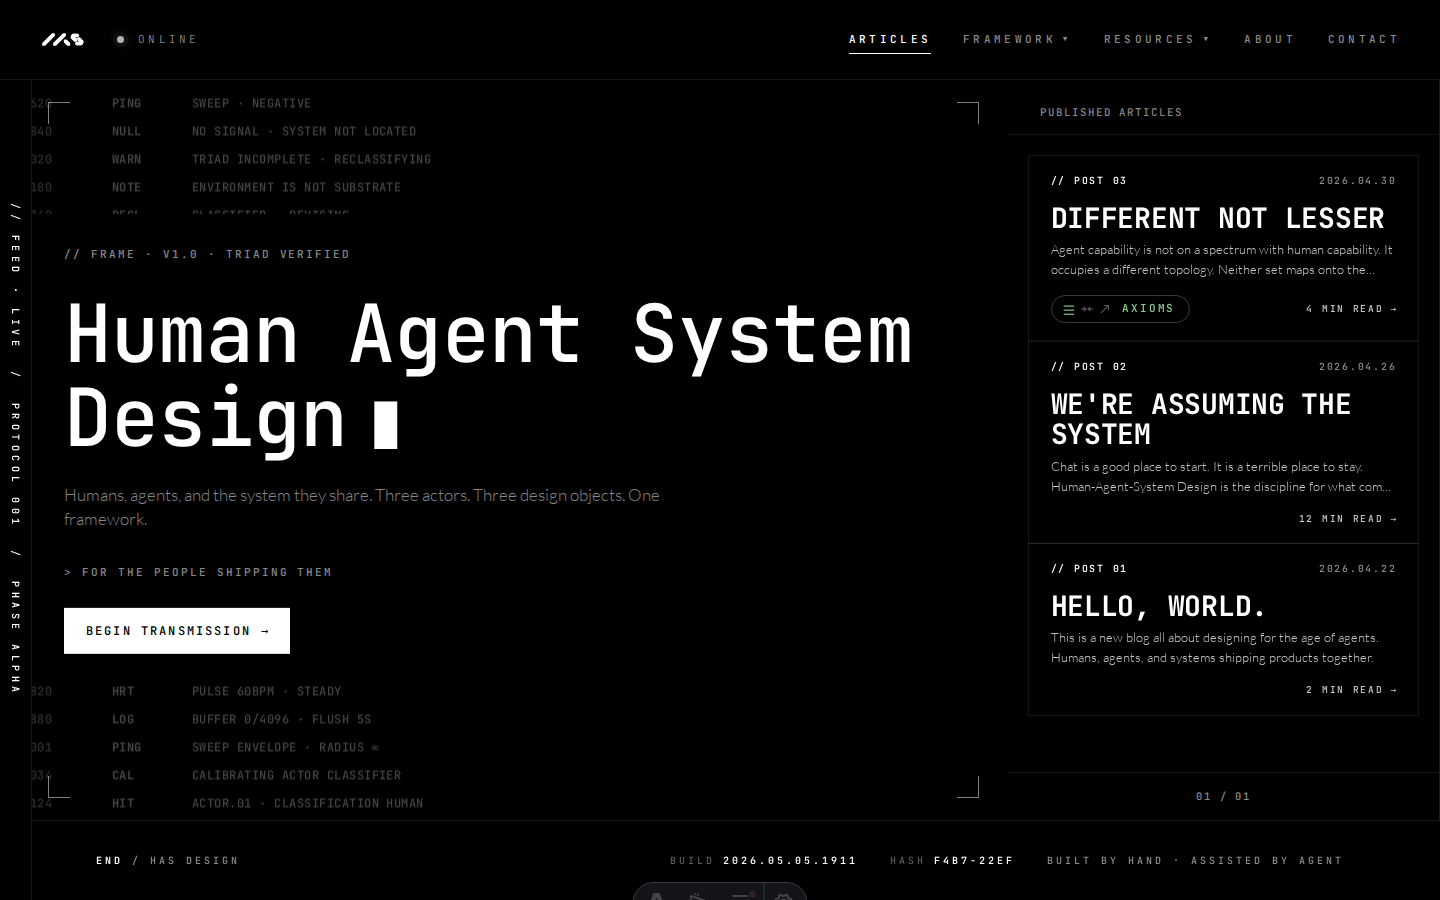
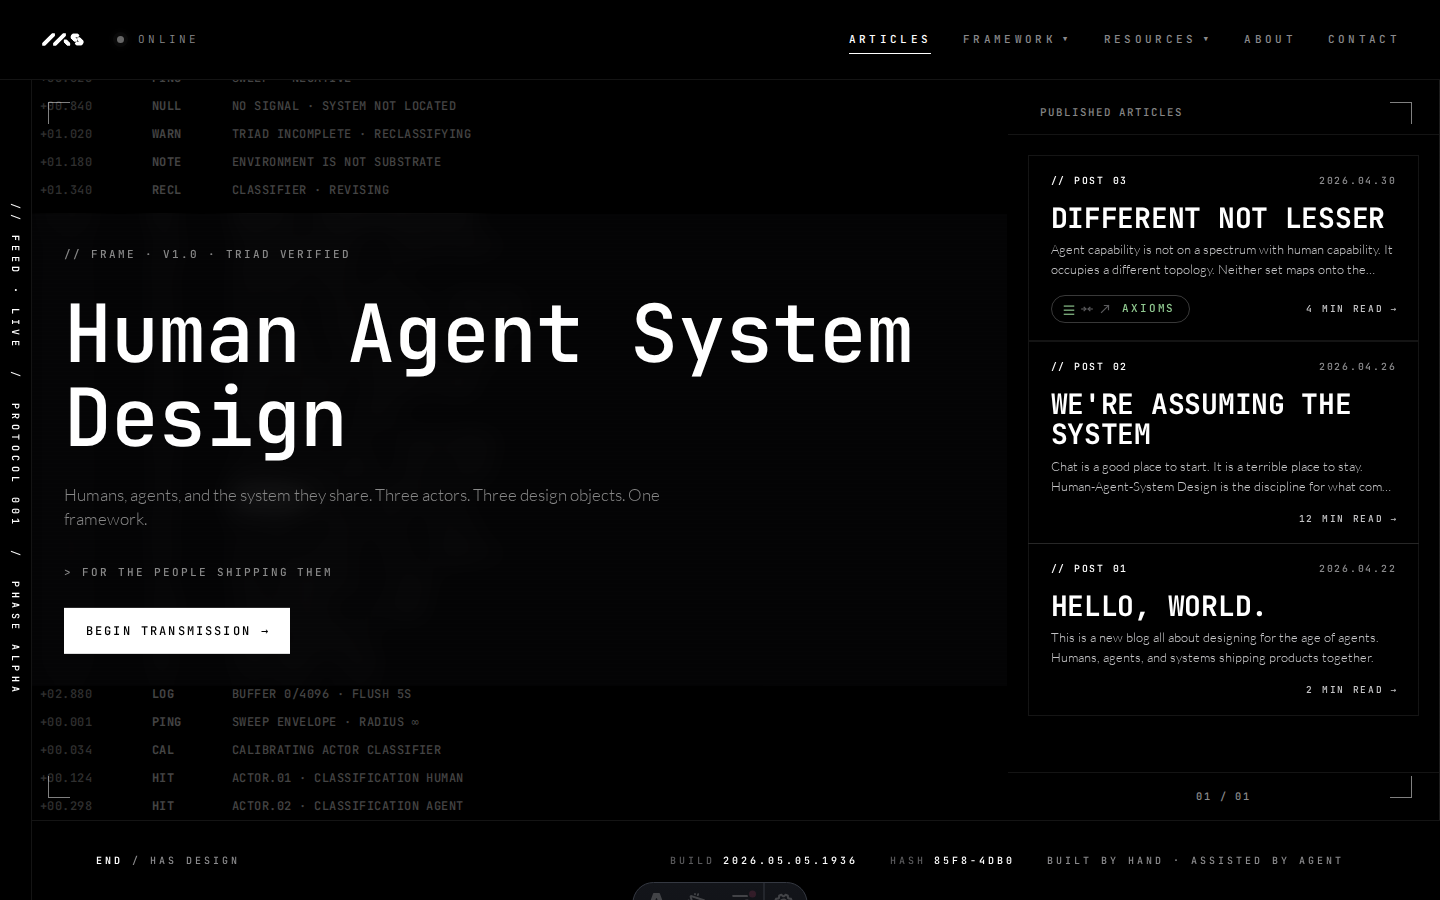
refactor(hero): discrete scan-line cycle + glassmorphic lockup
The marquee scroll wasn't right. Replaced with a discrete-event
cycle: scan-lines fill the column from page load, and at varied
intervals (400–2000ms) JS appends a new scan-line at the bottom.
The new line scans in via the canonical max-height + opacity
reveal, the existing stack pushes up by 28px, and the oldest
line clips past the top edge into overflow:hidden. DOM is
trimmed to 50 entries to keep it bounded over long sessions.
The full SCAN_LINES list cycles via modulo so content never
runs out.

Loop runs on every visit (return + reduced-motion paint with
the pre-rendered lines static; reduced-motion skips the
appender). Cold load layers the lockup-reveal on top.

Lockup is now glassmorphic: rgba(8,8,10,0.55) + backdrop-filter
blur(14px). Replaces the solid black bar that was visible during
the initial hold. During has-hero-frame-play the .frame-block is
fully transparent — no background, no blur — so there's no bar
covering the column. After REVEAL_DELAY (4s), .is-revealing
flips on: glass fades in (400ms), then the 5 frame-lines scan in
at 145ms cadence. Hero settles ~5.4s. Panels chain off that.

diff --git a/tests/ili-818-verify.spec.ts b/tests/ili-818-verify.spec.ts
@@ -4,66 +4,70 @@ const PORT = process.env.PORT || 4322;
 const INDEX = `http://localhost:${PORT}/`;
 const ABOUT = `http://localhost:${PORT}/about`;
 
-/* ILI-818 — scan-marquee backdrop scrolls bottom-to-top
-   continuously. On cold load, an intro keyframe pushes the track
-   from below the column up to filling it (~6s); the moment the
-   intro finishes the frame-block lockup scans in via the canonical
-   max-height + opacity reveal. The H1 carries a blinking terminal
-   cursor. The wide divider (.frame-rule) is gone. */
+/* ILI-818 — discrete scan-line cycle backdrop + glassmorphic
+   lockup. Pre-rendered scan-lines fill the column at 0.5
+   opacity. JS appends a new line at the bottom on a varied
+   400–2000ms interval; new line scans in via max-height +
+   opacity, the existing stack pushes up, the oldest clips
+   past the top edge. Frame-block is transparent during
+   initial load and switches to glass + writes in lines after
+   a 4s hold. */
 
-const INTRO_DURATION = 6000;
-const HERO_SETTLE = INTRO_DURATION + 5 * 145 + 320; // 5 frame lines + transition
+const REVEAL_DELAY = 4000;
+const GLASS_FADE = 400;
+const FRAME_LINES_COUNT = 5;
+const CADENCE = 145;
+const HERO_SETTLE = REVEAL_DELAY + GLASS_FADE + (FRAME_LINES_COUNT - 1) * CADENCE + 320;
 
-test.describe('ILI-818 — scan-marquee + lockup', () => {
-  test('cold load: marquee + corners visible, frame-block hidden until intro completes', async ({ page }) => {
+test.describe('ILI-818 — scan cycle + glass lockup', () => {
+  test('cold load: scan lines fill column from start, frame-block transparent + lines hidden', async ({ page }) => {
     await page.setViewportSize({ width: 1440, height: 900 });
     await page.goto(INDEX);
     await page.waitForLoadState('domcontentloaded');
 
-    // Boot classes set pre-paint.
     expect(await page.evaluate(() => document.body.classList.contains('is-index-booting'))).toBe(true);
     expect(await page.evaluate(() => document.body.classList.contains('has-hero-frame-play'))).toBe(true);
 
-    // Marquee is present and animating.
-    const marqueeAnim = await page.locator('.scan-marquee-track').evaluate((el) => getComputedStyle(el).animationName);
-    expect(marqueeAnim).toContain('scan-intro');
+    // Scan-stack already populated with at least 28 lines.
+    const lineCount = await page.locator('.scan-stack .scan-line').count();
+    expect(lineCount).toBeGreaterThanOrEqual(28);
 
-    // Corners always visible (not part of boot reveal).
-    const cornerOpacity = await page.locator('.frame-corner--tl').evaluate((el) => Number(getComputedStyle(el).opacity));
-    expect(cornerOpacity).toBeCloseTo(0.5, 2);
+    // Frame-block has no glass background while booting.
+    const bg = await page.locator('.frame-block').evaluate((el) => getComputedStyle(el).backgroundColor);
+    expect(bg).toMatch(/rgba\(0,\s*0,\s*0,\s*0\)|transparent/);
 
-    // Frame-line hidden during boot (max-height: 0 + opacity: 0).
+    // Frame-line hidden.
     const frameLineOpacity = await page.locator('.frame-block .frame-line').first().evaluate((el) => Number(getComputedStyle(el).opacity));
     expect(frameLineOpacity).toBe(0);
   });
 
-  test('frame-block scans in after intro: 5 lines reveal at 145ms cadence', async ({ page }) => {
+  test('lockup writes in after the hold: glass appears, then 5 frame-lines reveal', async ({ page }) => {
     await page.setViewportSize({ width: 1440, height: 900 });
     await page.goto(INDEX);
     await page.waitForLoadState('domcontentloaded');
 
-    // Wait until well past hero-settle.
     await page.waitForTimeout(HERO_SETTLE + 500);
 
-    const frameLineState = await page.evaluate(() => {
+    const state = await page.evaluate(() => {
       const lines = Array.from(document.querySelectorAll('.frame-block .frame-line'));
       return {
         total: lines.length,
         revealed: lines.filter((l) => l.classList.contains('is-visible')).length,
         opacities: lines.map((l) => Number(getComputedStyle(l).opacity)),
+        revealing: document.querySelector('.frame-block')?.classList.contains('is-revealing') ?? false,
+        bg: getComputedStyle(document.querySelector('.frame-block')!).backgroundColor,
       };
     });
-    expect(frameLineState.total).toBe(5);
-    expect(frameLineState.revealed).toBe(5);
-    for (const o of frameLineState.opacities) expect(o).toBe(1);
+    expect(state.total).toBe(FRAME_LINES_COUNT);
+    expect(state.revealed).toBe(FRAME_LINES_COUNT);
+    for (const o of state.opacities) expect(o).toBe(1);
+    expect(state.revealing).toBe(true);
+    // Glass background is now visible (rgba with alpha > 0).
+    expect(state.bg).toMatch(/rgba?\(/);
 
-    // The wide divider is gone.
-    const ruleCount = await page.locator('.frame-rule').count();
-    expect(ruleCount).toBe(0);
-
-    // Cursor is present on the H1.
-    const cursorCount = await page.locator('.frame-h1 .frame-cursor').count();
-    expect(cursorCount).toBe(1);
+    // Wide divider is gone, cursor is on the H1.
+    expect(await page.locator('.frame-rule').count()).toBe(0);
+    expect(await page.locator('.frame-h1 .frame-cursor').count()).toBe(1);
 
     await page.screenshot({
       path: 'verification-screenshots/ili-818-boot-end.png',
@@ -71,21 +75,24 @@ test.describe('ILI-818 — scan-marquee + lockup', () => {
     });
   });
 
-  test('marquee transitions from intro to infinite loop without breaking', async ({ page }) => {
+  test('scan-line cycle adds new lines and trims old ones', async ({ page }) => {
     await page.setViewportSize({ width: 1440, height: 900 });
     await page.goto(INDEX);
     await page.waitForLoadState('domcontentloaded');
 
-    // Wait into the loop phase (after intro + a few seconds).
-    await page.waitForTimeout(INTRO_DURATION + 2000);
+    const before = await page.locator('.scan-stack .scan-line').count();
+    // Wait long enough for several cycles (varied 400–2000ms interval,
+    // so 6s yields ~3–15 cycles statistically).
+    await page.waitForTimeout(6000);
+    const after = await page.locator('.scan-stack .scan-line').count();
 
-    const animName = await page.locator('.scan-marquee-track').evaluate((el) => getComputedStyle(el).animationName);
-    // Two-stage chain: scan-intro then scan-loop. After intro
-    // completes, scan-loop is the active animation.
-    expect(animName).toMatch(/scan-loop|scan-intro,\s*scan-loop/);
+    // Stack grew (new lines appended) but stays bounded by the
+    // 50-entry trim cap.
+    expect(after).toBeGreaterThanOrEqual(before);
+    expect(after).toBeLessThanOrEqual(50);
   });
 
-  test('reduced motion: lockup visible, marquee static', async ({ browser }) => {
+  test('reduced motion: lockup visible from first paint, scan loop disabled', async ({ browser }) => {
     const context = await browser.newContext({
       reducedMotion: 'reduce',
       viewport: { width: 1440, height: 900 },
@@ -99,6 +106,11 @@ test.describe('ILI-818 — scan-marquee + lockup', () => {
     const frameLineOpacity = await page.locator('.frame-block .frame-line').first().evaluate((el) => Number(getComputedStyle(el).opacity));
     expect(frameLineOpacity).toBe(1);
 
+    const before = await page.locator('.scan-stack .scan-line').count();
+    await page.waitForTimeout(2500);
+    const after = await page.locator('.scan-stack .scan-line').count();
+    expect(after).toBe(before); // no new lines appended
+
     await page.screenshot({
       path: 'verification-screenshots/ili-818-reduced-motion.png',
       fullPage: false,
@@ -107,7 +119,7 @@ test.describe('ILI-818 — scan-marquee + lockup', () => {
     await context.close();
   });
 
-  test('return visit (reload): lockup visible from first paint', async ({ browser }) => {
+  test('return visit: lockup visible from first paint, glass background applied', async ({ browser }) => {
     const context = await browser.newContext({ viewport: { width: 1440, height: 900 } });
     const page = await context.newPage();
 
@@ -122,23 +134,8 @@ test.describe('ILI-818 — scan-marquee + lockup', () => {
     const frameLineOpacity = await page.locator('.frame-block .frame-line').first().evaluate((el) => Number(getComputedStyle(el).opacity));
     expect(frameLineOpacity).toBe(1);
 
-    await context.close();
-  });
-
-  test('internal navigation /about → /: lockup visible from first paint', async ({ browser }) => {
-    const context = await browser.newContext({ viewport: { width: 1440, height: 900 } });
-    const page = await context.newPage();
-
-    await page.goto(ABOUT);
-    await page.waitForLoadState('domcontentloaded');
-
-    await page.click('.sh-logo');
-    await page.waitForURL(INDEX);
-    await page.waitForTimeout(400);
-
-    expect(await page.evaluate(() => document.body.classList.contains('is-index-booting'))).toBe(false);
-    const frameLineOpacity = await page.locator('.frame-block .frame-line').first().evaluate((el) => Number(getComputedStyle(el).opacity));
-    expect(frameLineOpacity).toBe(1);
+    const bg = await page.locator('.frame-block').evaluate((el) => getComputedStyle(el).backgroundColor);
+    expect(bg).toMatch(/rgba?\(/);
 
     await context.close();
   });

diff --git a/src/styles/homepage.css b/src/styles/homepage.css
@@ -398,55 +398,30 @@ body.hero-sequence-play .protocol-chip.is-typed {
   position: relative;
 }
 
-/* ILI-818 — scan-marquee backdrop. Always-on, scrolls
-   bottom-to-top continuously. Two stacked copies of the same
-   scan-line list so a translateY(0) → translateY(-50%) loop
-   is seamless (copy 2 ends at copy 1's prior visual position).
-   On cold load, an intro keyframe pushes the track from below
-   the column up to filling it (INTRO_DURATION) — the moment
-   the intro completes is when the frame-block reveals. */
+/* ILI-818 — scan-line backdrop. Pre-rendered set fills the
+   column at default 0.5 opacity. JS appends a new line at the
+   bottom on a varied interval; the new line scans in (max-height
+   + opacity) and pushes the existing stack up by 28px, sending
+   the oldest past the top edge into overflow:hidden. */
 .frame-viewport {
   position: relative;
   flex: 1 1 auto;
   min-height: 0;
   overflow: hidden;
-  /* Set by JS to the live frame-viewport height — drives the
-     scan-intro keyframe so the track starts exactly one column
-     below and animates up to fill it. */
-  --frame-viewport-h: 740px;
 }
 
-.scan-marquee {
+.scan-stack {
   position: absolute;
   inset: 0;
-  overflow: hidden;
-  pointer-events: none;
-  z-index: 1;
-}
-.scan-marquee-track {
   display: flex;
   flex-direction: column;
-  animation: scan-loop 8s linear infinite;
-  will-change: transform;
-}
-body.has-hero-frame-play .scan-marquee-track {
-  animation:
-    scan-intro 6s linear forwards,
-    scan-loop 8s linear 6s infinite;
-}
-@keyframes scan-intro {
-  from { transform: translateY(var(--frame-viewport-h, 740px)); }
-  to   { transform: translateY(0); }
-}
-@keyframes scan-loop {
-  from { transform: translateY(0); }
-  to   { transform: translateY(-50%); }
+  justify-content: flex-end;
+  padding: 0 40px;
+  pointer-events: none;
+  overflow: hidden;
+  z-index: 1;
 }
 
-/* Scan lines: dim ambient by default. No boot-time full
-   opacity — the marquee carries the same dim aesthetic the
-   whole time. Color #888 at 0.5 multiplier gives roughly
-   #444 effective on black. */
 .scan-line {
   display: grid;
   grid-template-columns: 96px 64px 1fr;
@@ -461,15 +436,25 @@ body.has-hero-frame-play .scan-marquee-track {
   color: #888888;
   white-space: nowrap;
   flex: 0 0 auto;
+  max-height: 28px;
   opacity: 0.5;
+  overflow: hidden;
+  transition:
+    max-height 0.32s cubic-bezier(.4, .1, .2, 1),
+    opacity 0.18s linear 0.08s;
+}
+.scan-line.is-hidden {
+  max-height: 0;
+  opacity: 0;
 }
 .scan-line .scan-t { color: #888888; opacity: 0.7; }
 .scan-line .scan-c { color: #888888; font-weight: 700; }
 .scan-line .scan-d { color: #888888; }
 
-/* Lockup floats above the marquee, centered vertically.
-   Black background occludes the scrolling scan-lines behind
-   the message so the lockup stays legible. */
+/* Lockup floats above the scan-stack, centered vertically.
+   Glassmorphic background (semi-transparent + backdrop blur)
+   keeps the message legible against the scrolling scan-lines
+   without forming a hard black bar. */
 .frame-block {
   position: absolute;
   top: 50%;
@@ -477,11 +462,32 @@ body.has-hero-frame-play .scan-marquee-track {
   right: 0;
   transform: translateY(-50%);
   z-index: 2;
-  background: #000000;
+  background: rgba(8, 8, 10, 0.55);
+  backdrop-filter: blur(14px);
+  -webkit-backdrop-filter: blur(14px);
   padding: 32px 64px;
   display: flex;
   flex-direction: column;
   align-items: flex-start;
+  transition:
+    background 400ms ease-out,
+    backdrop-filter 400ms ease-out,
+    -webkit-backdrop-filter 400ms ease-out;
+}
+/* During initial load (before the lockup is ready to write
+   in), the glass bar is invisible — no background, no blur.
+   The orchestrator adds .is-revealing when it's ready,
+   transitioning the glass into view before the frame-lines
+   start scanning in. */
+body.has-hero-frame-play .frame-block {
+  background: transparent;
+  backdrop-filter: none;
+  -webkit-backdrop-filter: none;
+}
+body.has-hero-frame-play .frame-block.is-revealing {
+  background: rgba(8, 8, 10, 0.55);
+  backdrop-filter: blur(14px);
+  -webkit-backdrop-filter: blur(14px);
 }
 
 /* Frame-line wrapper — same reveal as .scan-line, taller
@@ -684,8 +690,7 @@ body.has-hero-frame-play .frame-line.is-visible {
 
 @media (prefers-reduced-motion: reduce) {
   .scan-line,
-  .frame-line,
-  .scan-marquee-track {
+  .frame-line {
     transition: none !important;
     animation: none !important;
   }
@@ -1771,13 +1776,12 @@ body.hero-hover .hud-corner.br { transform: translate(-8.49px, -8.49px); }
     flex-direction: column;
   }
   .col-hero.has-hero-frame .frame-corner { display: none; }
-  .col-hero.has-hero-frame .scan-marquee {
+  .col-hero.has-hero-frame .scan-stack {
     padding: 0 20px;
   }
   .col-hero.has-hero-frame .scan-line {
     grid-template-columns: 76px 56px 1fr;
     gap: 12px;
-    padding: 0;
   }
   .col-hero.has-hero-frame .frame-block {
     padding: 28px 24px;

diff --git a/tests/ili-789-verify.spec.ts b/tests/ili-789-verify.spec.ts
@@ -60,10 +60,10 @@ test.describe('ILI-789 — index boot sequence', () => {
     await page.goto(INDEX);
     await page.waitForLoadState('domcontentloaded');
 
-    // ILI-818 — boot reformat: marquee intro (6s) + 5 frame
-    // lines × 145ms + 320ms transition ≈ 7s hero settle. Panels
-    // start revealing then.
-    await page.waitForTimeout(7100);
+    // ILI-818 — boot reformat: 4s hold + 400ms glass fade +
+    // 5 frame lines × 145ms + 320ms transition ≈ 5.4s hero
+    // settle. Panels start revealing then.
+    await page.waitForTimeout(5500);
     const afterHeader = await page.evaluate(() => {
       return {
         header: Number(getComputedStyle(document.querySelector('.site-header')!).opacity),
@@ -113,10 +113,10 @@ test.describe('ILI-789 — index boot sequence', () => {
     const context = await browser.newContext({ viewport: { width: 1440, height: 900 } });
     const page = await context.newPage();
 
-    // First visit — let it run. ILI-818 — full boot is ~9s
-    // (7s hero settle + ~1.3s panel reveals + 400ms tail).
+    // First visit — let it run. ILI-818 — full boot is ~7s
+    // (5.4s hero settle + ~1.3s panel reveals + 400ms tail).
     await page.goto(INDEX);
-    await page.waitForTimeout(9500);
+    await page.waitForTimeout(7500);
     expect(await page.evaluate(() => sessionStorage.getItem('has_index_booted'))).toBe('1');
 
     // Second visit (reload) — should skip the boot entirely.
